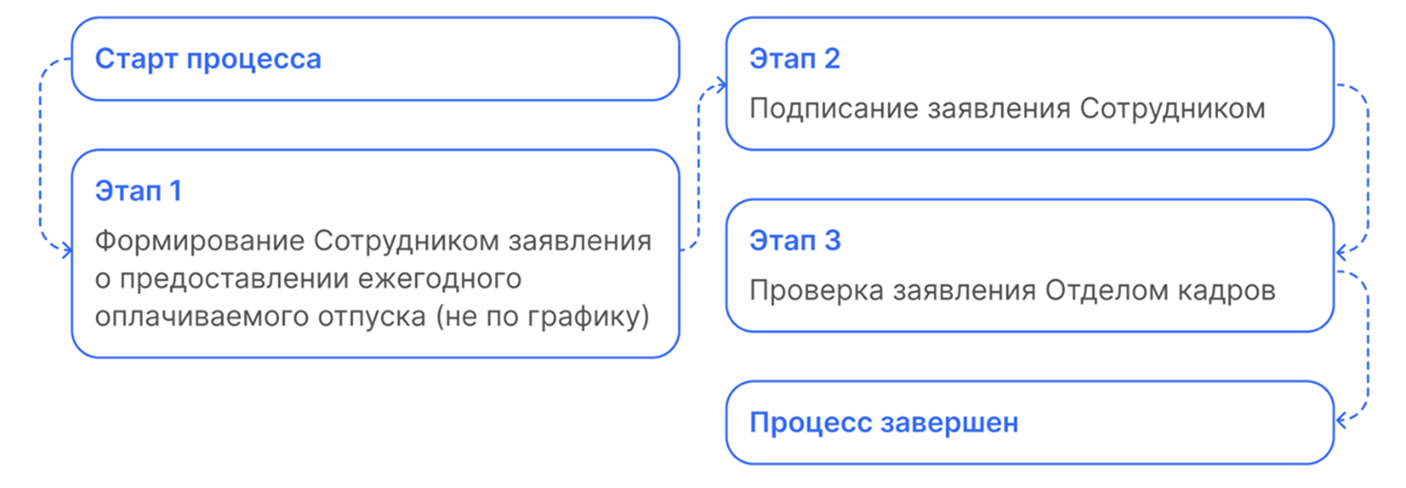
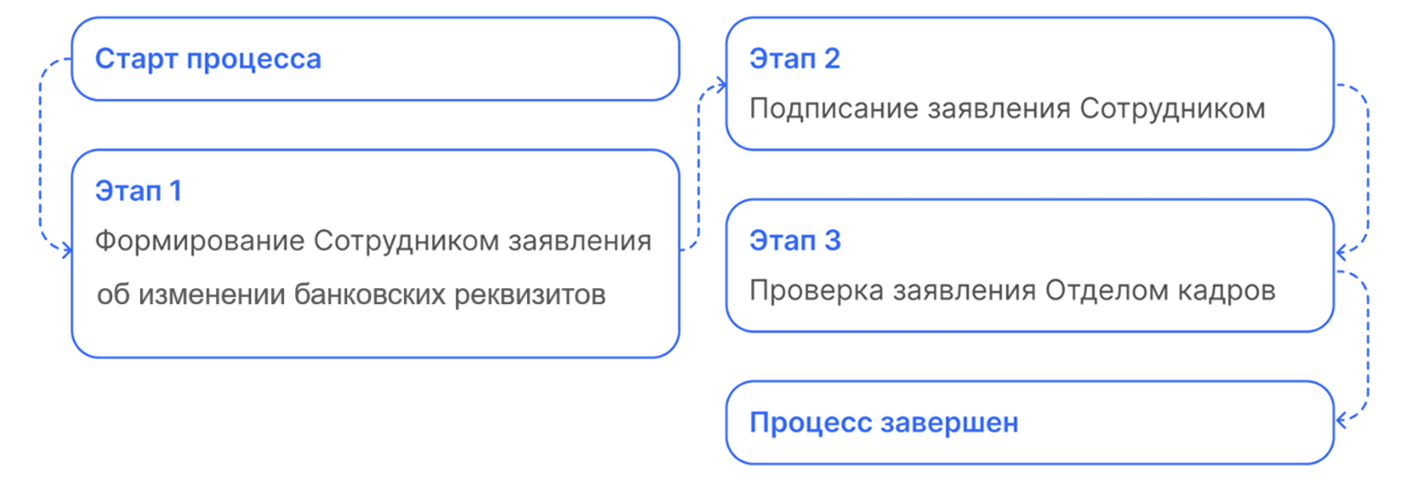
Release 2025-11-05 08:03:24

Changed region(s): [[0.0612, 0.5533, 0.4587, 0.6762]]

diff --git a/docs/ru/release_notes/saas/20251000Core/20251000Core.md b/docs/ru/release_notes/saas/20251000Core/20251000Core.md
@@ -270,7 +270,7 @@
 
 ![](./assets/1.png)
 
-2\. В атрибутах, где значения выбираются из справочников, теперь можно использовать **справочники с иерархией**. Это удобно, когда значения имеют многоуровневую структуру. Такая структура помогает упростить навигацию и сделать выбор значений более наглядным. Кроме того, можно настроить обращение из атрибута напрямую к оргструктуре компании, чтобы участники процесса могли выбирать нужное подразделение из иерархического списка.
+2\. В атрибутах, где значения выбираются из справочников, теперь можно использовать **справочники с иерархией**. Это удобно, когда значения имеют многоуровневую структуру. Такая структура помогает упростить навигацию и сделать выбор значений более наглядным. 
 
 ![](./assets/Form.png)
 

diff --git a/docs/ru/release_notes/onpremise/20251000Core/20251000Core.md b/docs/ru/release_notes/onpremise/20251000Core/20251000Core.md
@@ -326,7 +326,7 @@
 
 </details>
 
-2\. В атрибутах, где значения выбираются из справочников, теперь можно использовать **справочники с иерархией**. Это удобно, когда значения имеют многоуровневую структуру. Такая структура помогает упростить навигацию и сделать выбор значений более наглядным. Кроме того, можно настроить обращение из атрибута напрямую к оргструктуре компании, чтобы участники процесса могли выбирать нужное подразделение из иерархического списка.
+2\. В атрибутах, где значения выбираются из справочников, теперь можно использовать **справочники с иерархией**. Это удобно, когда значения имеют многоуровневую структуру. Такая структура помогает упростить навигацию и сделать выбор значений более наглядным.
 
 ![](./assets/Form.png)
 

diff --git a/docs/ru/hr/pre-configured_processes/applications/changes_bank_details/changes_bank_details.md b/docs/ru/hr/pre-configured_processes/applications/changes_bank_details/changes_bank_details.md
@@ -10,7 +10,7 @@
  3. Выбирает **Заявление об изменении банковских реквизитов**.
  4. Нажимает **Подтвердить**.
 
-## Этап 1. Формирование Сотрудником заявления о предоставлении ежегодного оплачиваемого отпуска (не по графику)
+## Этап 1. Формирование Сотрудником заявления об изменении банковских реквизитов
 
 1. Сотрудник указывает **Номер расчетного счета**, **Наименование банка**, **БИК**.
 2. Загружает файл с банковскими реквизитами и нажимает кнопку **Перейти к просмотру**.
